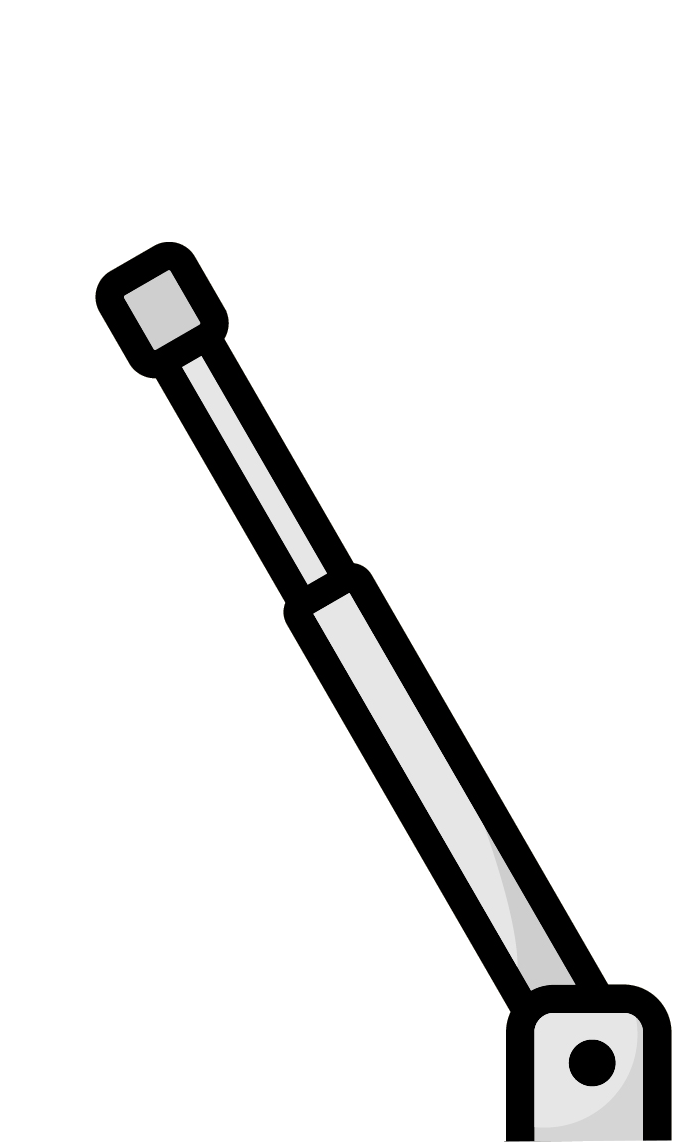
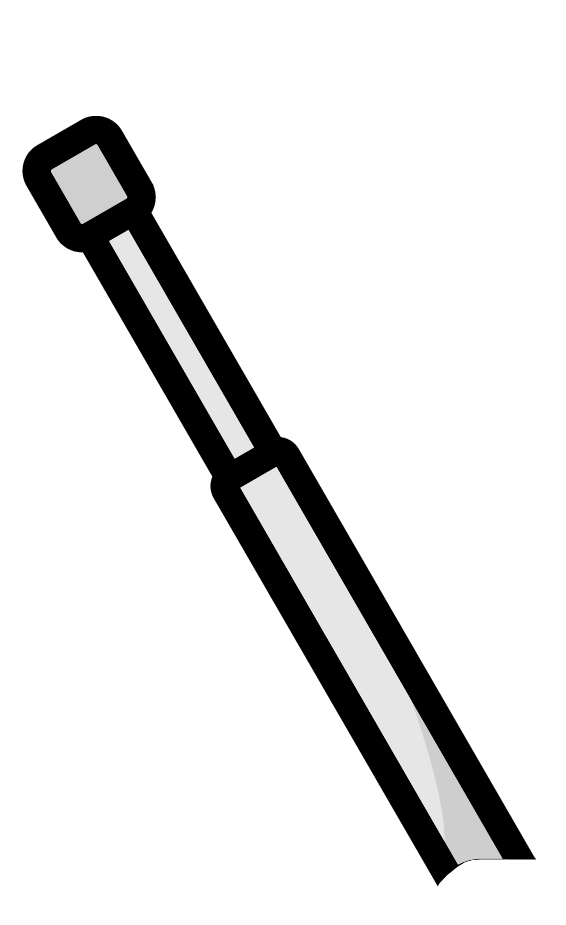
feat: working antenna

diff --git a/css/style.css b/css/style.css
@@ -4,7 +4,8 @@
   box-sizing: border-box;
 }
 
-html, body {
+html,
+body {
   width: 100%;
   height: 100%;
 }
@@ -27,4 +28,40 @@ body {
   width: 100%;
   height: auto;
   display: block;
+}
+
+#antenna-mount {
+  position: absolute;
+  width: 4.5%;
+  left: 72.25%;
+  top: 35.9%;
+  z-index: 2;
+}
+
+#antenna-stick {
+  position: absolute;
+  width: 14%;
+  left: 62.5%;
+  top: 15%;
+  transform-origin: 77.2% 95.9%;
+  animation: sway 4s ease-in-out infinite;
+  z-index: 1;
+}
+
+@keyframes sway {
+  0% {
+    transform: rotate(0deg);
+  }
+
+  25% {
+    transform: rotate(1.5deg);
+  }
+
+  75% {
+    transform: rotate(-1.5deg);
+  }
+
+  100% {
+    transform: rotate(0deg);
+  }
 }

diff --git a/index.html b/index.html
@@ -1,14 +1,19 @@
 <!DOCTYPE html>
 <html lang="en">
+
 <head>
-  <meta charset="UTF-8">
-  <meta name="viewport" content="width=device-width, initial-scale=1.0, user-scalable=no">
-  <title>Reasons Why</title>
-  <link rel="stylesheet" href="css/style.css">
+    <meta charset="UTF-8">
+    <meta name="viewport" content="width=device-width, initial-scale=1.0, user-scalable=no">
+    <title>Reasons Why</title>
+    <link rel="stylesheet" href="css/style.css">
 </head>
+
 <body>
-  <div id="radio-container">
-    <img id="radio-base" src="assets/radio_base.png" alt="radio">
-  </div>
+    <div id="radio-container">
+        <img id="radio-base" src="assets/radio_base.png" alt="radio">
+        <img id="antenna-mount" src="assets/antenna_base.png" alt="">
+        <img id="antenna-stick" src="assets/antenna.png" alt="">
+    </div>
 </body>
+
 </html>